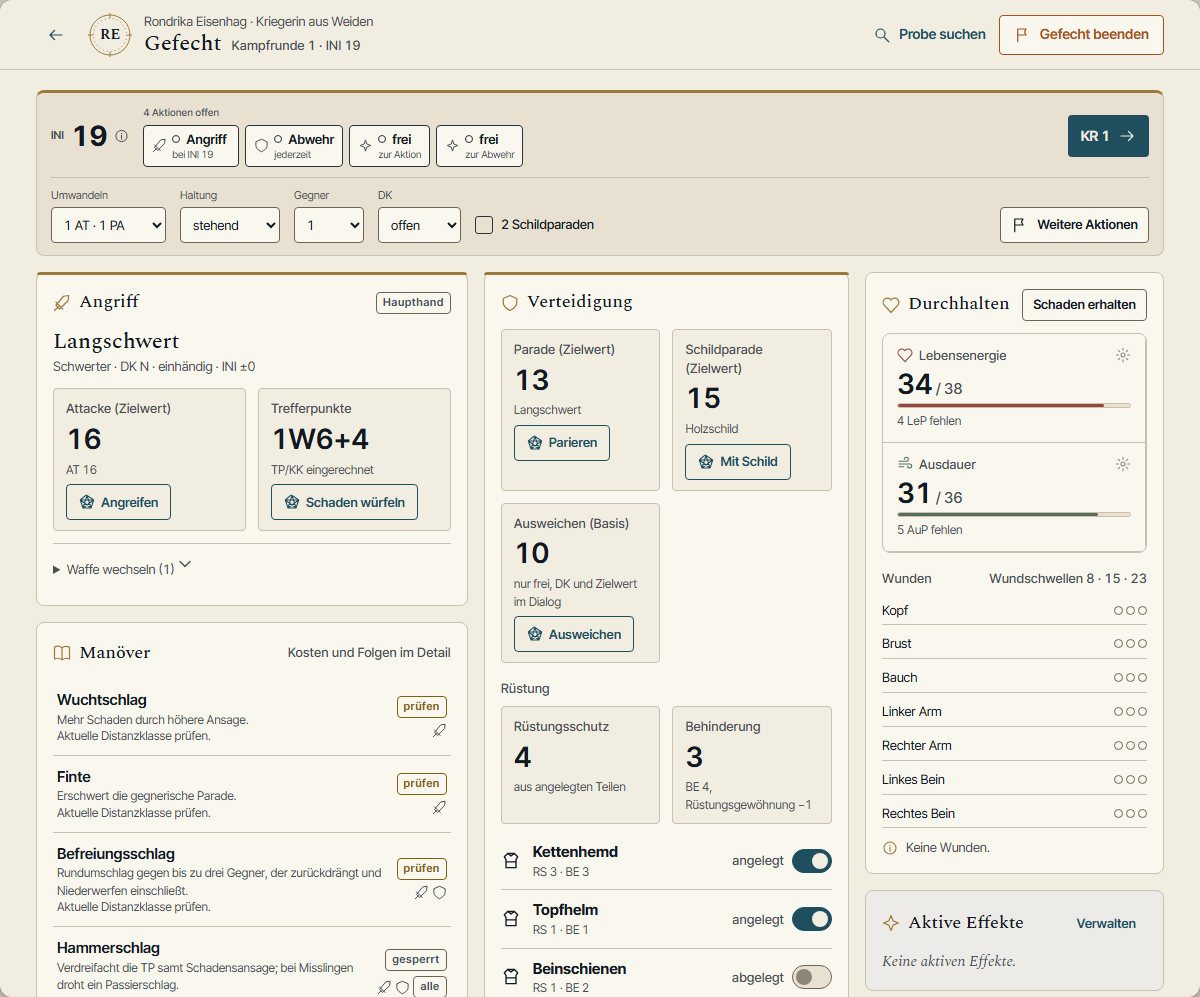
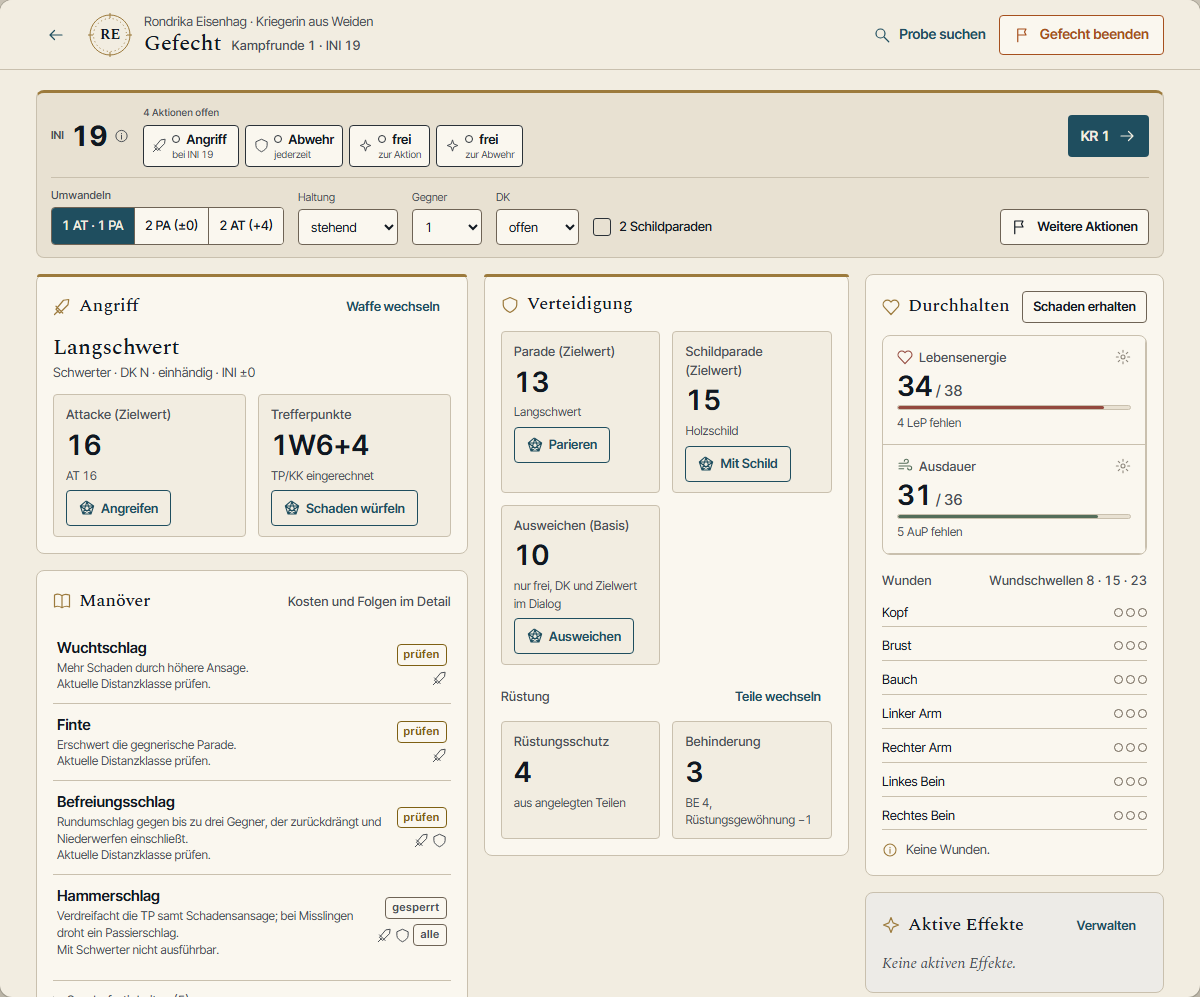
mockup: Umwandeln direkt wählen und Ausrüstung im Popup wechseln

diff --git a/docs/mockups/gefecht.js b/docs/mockups/gefecht.js
@@ -1368,7 +1368,6 @@ function zoneEffekte(h) {
 
 function zoneAngriff(h, g, v) {
   const w = v.waffe;
-  const andere = h.waffen.filter((x) => x.id !== w.id);
   let kern;
   if (v.nah) {
     const ers = erschwernis(h, g, v, 'at');
@@ -1401,19 +1400,12 @@ function zoneAngriff(h, g, v) {
   if (v.axx && v.nah) hinweise.push('Abwehr des beschleunigten Nahkampfangriffs: Automatische Finte +2');
   if (h.nebenhand && !v.schildNutzbar) hinweise.push(`${h.nebenhand.name}: mit ${w.name} (${w.hand}) nicht nutzbar.`);
   return `<section class="zone akzent" aria-labelledby="z-angriff">
-    ${zoneKopf(v.nah ? 'sword' : 'bow', '<span id="z-angriff">Angriff</span>', '<span class="chip-marke">Haupthand</span>')}
+    ${zoneKopf(v.nah ? 'sword' : 'bow', '<span id="z-angriff">Angriff</span>', '<button type="button" class="btn btn-leise btn-klein" data-action="ausruestung" data-bereich="waffen">Waffe wechseln</button>')}
     <div class="waffe-name"><span class="titel" style="font-size:22px">${esc(w.name)}</span></div>
     <div class="waffe-meta">${esc(w.talent)}${w.dk ? ` · DK ${w.dk}` : ''} · ${w.hand} · INI ${vz(w.ini)}</div>
     ${kern}
     ${hinweise.length ? `<div class="hinweise">${hinweise.map((t) => `<p class="hinweis-zeile">${icon('info')}<span>${esc(t)}</span></p>`).join('')}</div>` : ''}
-    ${andere.length ? `<details class="waffen-details"><summary>Waffe wechseln <span class="leise">(${andere.length})</span>${icon('chevron')}</summary>
-    <div class="zeilen">${andere.map((x) => {
-      const werte = x.art === 'nah' ? `AT ${x.at} · PA ${x.pa}` : `FK ${x.fk} · Ladezeit ${x.ladezeit}`;
-      const z = ZIEHEN[x.scheide];
-      const n = h.schnellziehen ? z.schnell : z.normal;
-      return `<div class="zeile">${icon(x.art === 'nah' ? 'sword' : 'bow')}<div class="zeile-text"><b>${esc(x.name)}</b><small>${werte} · ${z.text}: ${n === 0 ? 'Freie Aktion' : aktionenText(n)}</small></div>
-        <div class="rechts"><button type="button" class="btn btn-sekundaer btn-klein" data-action="ziehen" data-id="${x.id}">${icon('swap')}Ziehen</button></div></div>`;
-    }).join('')}</div></details>` : ''}
+
   </section>`;
 }
 
@@ -1471,13 +1463,12 @@ function zoneVerteidigung(h, g, v) {
     ${zoneKopf('shield', '<span id="z-vert">Verteidigung</span>')}
     <div class="werte" style="margin-top:0">${felder.join('')}</div>
     ${klingenwand}
-    <div class="unterkopf"><span class="etikett">Rüstung</span></div>
+    <div class="unterkopf"><span class="etikett">Rüstung</span><button type="button" class="btn btn-leise btn-klein" data-action="ausruestung" data-bereich="ruestung">Teile wechseln</button></div>
     <div class="werte" style="margin-top:0">
       ${wertfeld({ etikett: 'Rüstungsschutz', wert: v.rs, zusatz: v.armatrutz ? `Armatrutz ${vz(v.armatrutz)}` : 'aus angelegten Teilen' })}
       ${wertfeld({ etikett: 'Behinderung', wert: v.be, zusatz: h.ruestungsgewoehnung ? `BE ${v.beRoh}, Rüstungsgewöhnung ${minus(-h.ruestungsgewoehnung)}` : 'BE gesamt' })}
     </div>
-    <div class="zeilen" style="margin-top:8px">${h.ruestung.map((r) => `<div class="zeile">${icon('armor')}<div class="zeile-text"><b>${esc(r.name)}</b><small>RS ${r.rs} · BE ${r.be}</small></div>
-      <div class="rechts"><span class="etikett">${r.an ? 'angelegt' : 'abgelegt'}</span><button type="button" class="schalter" role="switch" aria-checked="${r.an}" aria-label="${esc(r.name)} angelegt" data-action="ruestung" data-id="${r.id}"></button></div></div>`).join('')}</div>
+
   </section>`;
 }
 
@@ -1796,6 +1787,12 @@ const abbrechen = (text = 'Abbrechen') => `<button type="button" class="btn btn-
 
 function dialogIni() {
   const h = S.held;
+  // Gewünschter Startablauf wie in der App: Aufmerksamkeit setzt den maximalen Wurf.
+  if (h.aufmerksamkeit) {
+    beginneGefecht(h.iniSeiten);
+    zeigeToast('Aufmerksamkeit: INI mit 6 statt 1W6 angesetzt.', 'compass');
+    return;
+  }
   const v = berechne(h, null);
   let wurfWert = null;
   oeffneDialog(`<div class="dlg-inhalt">
@@ -1806,7 +1803,6 @@ function dialogIni() {
         <input class="eingabe" id="ini-wurf" type="number" min="1" max="${h.iniSeiten}" inputmode="numeric" placeholder="1–${h.iniSeiten}">
         <button type="button" class="btn btn-sekundaer" data-dlg="wuerfeln">${icon('dice')}Würfeln</button></div>
       <div class="ergebnis" id="ini-ergebnis"></div>
-      ${h.aufmerksamkeit ? '<p class="legende">Aufmerksamkeit hebt die INI nicht schon beim Wurf, sondern über die Aktion Orientieren (1 Aktion, ohne Probe) aufs Maximum (WdS S. 74).</p>' : ''}
     </div>
     <div class="dlg-aktionen">${abbrechen()}<button type="button" class="btn btn-primaer" data-dlg="start" id="ini-start" disabled>${icon('sword')}Gefecht beginnen</button></div>`, {
     wuerfeln: () => { $('#ini-wurf').value = wuerfel(h.iniSeiten); dlg.beiEingabe(); },
@@ -1994,7 +1990,14 @@ app.addEventListener('click', (e) => {
     case 'marke':
       if (g.verbraucht[el.dataset.id]) { delete g.verbraucht[el.dataset.id]; delete g.lang[el.dataset.id]; } else { fixiereIniBoni(); g.verbraucht[el.dataset.id] = 'von Hand'; }
       render(); break;
-    case 'umwandeln': g.umwandeln = el.dataset.wert; if (g.umwandeln === 'pa-at') g.zweiSchildparaden = false; render(); break;
+    case 'umwandeln': {
+      const { plan } = aktuellerPlan();
+      if (ansageGesperrt(h, g, plan)) break;
+      g.umwandeln = el.dataset.wert;
+      if (g.umwandeln === 'pa-at') g.zweiSchildparaden = false;
+      render(); break;
+    }
+    case 'ausruestung': dialogAusruestung(el.dataset.bereich); break;
     case 'zwei-schild': g.zweiSchildparaden = !g.zweiSchildparaden; render(); break;
     case 'ini': g.iniVerlust = Math.max(0, g.iniVerlust + Number(el.dataset.wert)); render(); break;
     case 'haltung': g.haltung = el.dataset.wert; render(); break;
@@ -2110,6 +2113,6 @@ window.addEventListener('resize', () => render());
   frame.style.width = `${S.breite}px`;
   frame.dataset.breite = String(S.breite);
   frame.dataset.theme = S.thema;
-  if (teile.includes('gefecht')) beginneGefecht(5);
+  if (teile.includes('gefecht')) beginneGefecht(S.held.aufmerksamkeit ? S.held.iniSeiten : 5);
   else render();
 }());

diff --git a/docs/mockups/gefecht-ausruestung.js b/docs/mockups/gefecht-ausruestung.js
@@ -1,0 +1,84 @@
+/* Ausrüstungsdialog für den flüchtigen Gefecht-Entwurf. */
+'use strict';
+
+// Der Dialog benötigt nur reguläre Marken; Zusatzparaden bezahlen keinen Waffenwechsel.
+function ausruestungBudget(v, plan) {
+  const g = S.gefecht;
+  const regulaer = plan.marken.some((m) =>
+    ['a1', 'a2'].includes(m.id) && !m.gesperrt && !g.verbraucht[m.id]);
+  const frei = !pruefeAktionskosten('frei').grund;
+  const lage = v.lage && !(v.lage.art === 'kampfunfaehig' && g.kfIgnoriert > 0);
+  return { regulaer, frei, lage };
+}
+
+// Werte und Kosten bleiben vor dem tatsächlichen Ziehen sichtbar.
+function ausruestungWaffen(h, g, v, budget) {
+  return h.waffen.map((w) => {
+    const z = ZIEHEN[w.scheide];
+    const n = h.schnellziehen ? z.schnell : z.normal;
+    const aktiv = w.id === h.aktiveWaffe;
+    const offen = n === 0 ? budget.frei : budget.regulaer;
+    let sperre = null;
+    if (budget.lage) sperre = v.lage.text;
+    else if (g.patzer) sperre = 'Patzer: Runde verloren.';
+    else if (!offen) sperre = 'Keine passende Aktion offen.';
+    const werte = w.art === 'nah'
+      ? `AT ${w.at} · PA ${w.pa} · DK ${w.dk}`
+      : `FK ${w.fk} · Ladezeit ${w.ladezeit}`;
+    const kosten = n === 0 ? 'Freie Aktion' : aktionenText(n);
+    const zustand = aktiv ? 'Aktuell geführt' : sperre || `${z.text} · ${kosten}`;
+    const deaktiviert = aktiv || sperre ? 'disabled' : '';
+    return `<div class="ausruestung-zeile">
+      ${icon(w.art === 'nah' ? 'sword' : 'bow')}
+      <div class="zeile-text"><b>${esc(w.name)}</b>
+        <small>${esc(werte)}</small><small>${esc(zustand)}</small></div>
+      <button type="button" class="btn btn-sekundaer btn-klein"
+        data-dlg="ziehen" data-id="${w.id}" ${deaktiviert}>
+        ${aktiv ? 'Geführt' : 'Ziehen'}</button></div>`;
+  }).join('');
+}
+
+// Einzelteile und ihr Anlegestatus gehören ausschließlich in den Ausrüstungsdialog.
+function ausruestungTeile(h) {
+  return h.ruestung.map((r) => `<div class="ausruestung-zeile">
+    ${icon('armor')}<div class="zeile-text"><b>${esc(r.name)}</b>
+      <small>RS ${r.rs} · BE ${r.be} · ${r.an ? 'angelegt' : 'abgelegt'}</small></div>
+    <button type="button" class="schalter" role="switch" aria-checked="${r.an}"
+      aria-label="${esc(r.name)} angelegt" data-dlg="ruestung"
+      data-id="${r.id}"></button></div>`).join('');
+}
+
+// Ein gemeinsamer Dialog hält Waffen und Rüstungsteile aus dem Kampf-Hauptfluss heraus.
+function dialogAusruestung(bereich = 'waffen') {
+  const h = S.held;
+  const g = S.gefecht;
+  const { v, plan } = aktuellerPlan();
+  const budget = ausruestungBudget(v, plan);
+  const waffen = bereich === 'waffen';
+  const inhalt = waffen ? ausruestungWaffen(h, g, v, budget) : ausruestungTeile(h);
+  const hinweis = waffen
+    ? 'Ziehen verbraucht die angegebene Aktion; längere Wechsel laufen als Handlung weiter.'
+    : 'Angelegte Teile aktualisieren. Den Zeitbedarf für An- und Ablegen am Spieltisch berücksichtigen.';
+  const summe = waffen ? ''
+    : `<p class="ausruestung-summe">Aktuell: RS ${v.rs} · BE ${v.be}</p>`;
+  oeffneDialog(`<div class="dlg-inhalt"><h2 id="dlg-titel">Ausrüstung wechseln</h2>
+    <div class="seg ausruestung-tabs" role="group" aria-label="Ausrüstungsbereich">
+      <button type="button" data-dlg="waffen" aria-pressed="${waffen}">
+        ${icon('sword')}Waffen</button>
+      <button type="button" data-dlg="teile" aria-pressed="${!waffen}">
+        ${icon('armor')}Rüstungsteile</button>
+    </div>
+    <p class="legende">${hinweis}</p>
+    <div class="ausruestung-liste">${inhalt || '<p class="legende">Keine Einträge.</p>'}</div>
+    ${summe}</div><div class="dlg-aktionen">${abbrechen('Fertig')}</div>`, {
+      waffen: () => dialogAusruestung('waffen'),
+      teile: () => dialogAusruestung('ruestung'),
+      ziehen: (b) => { dlg.close(); fuehreAktionAus(`ziehen:${b.dataset.id}`); },
+      ruestung: (b) => {
+        const teil = h.ruestung.find((r) => r.id === b.dataset.id);
+        teil.an = !teil.an;
+        render();
+        dialogAusruestung('ruestung');
+      },
+    });
+}

diff --git a/docs/mockups/gefecht.css b/docs/mockups/gefecht.css
@@ -289,6 +289,17 @@ h1, h2, h3, p { margin: 0; }
 .takt-unten { display: flex; flex-wrap: wrap; align-items: flex-end; gap: 8px 14px; margin-top: 10px; padding-top: 10px; border-top: var(--s-hoehenlinie) solid var(--hoehenlinie); }
 .takt-auswahl { display: flex; flex-direction: column; gap: 3px; min-width: 0; }
 .takt-auswahl > span { font-size: 11px; color: var(--schrift-leise); }
+.takt-umwandeln { display: flex; flex-direction: column; gap: 3px; }
+.takt-umwandeln > .etikett { font-size: 11px; }
+.takt-umwandeln .seg { flex-wrap: nowrap; }
+.takt-umwandeln .seg button { min-height: 36px; }
+.ausruestung-tabs { margin: 12px 0; }
+.ausruestung-tabs button { display: inline-flex; align-items: center; gap: 6px; }
+.ausruestung-tabs .icon { width: 16px; height: 16px; }
+.ausruestung-liste { margin-top: 14px; }
+.ausruestung-zeile { display: flex; align-items: center; gap: 12px; padding: 12px 0; border-bottom: var(--s-hoehenlinie) solid var(--hoehenlinie); }
+.ausruestung-zeile > .icon { color: var(--messing); }
+.ausruestung-summe { margin-top: 14px; font-size: 13px; color: var(--schrift-leise); }
 .takt-auswahl select { min-height: 36px; max-width: 100%; padding: 4px 24px 4px 8px; color: var(--schrift); background: var(--feld); border: var(--s-grat) solid var(--grat); border-radius: var(--r-klein); font: inherit; font-size: 13px; }
 .takt-auswahl select:disabled { color: var(--schrift-leise); }
 .takt-unten .check { min-height: 36px; }
@@ -332,6 +343,9 @@ h1, h2, h3, p { margin: 0; }
   .rundenwechsel { grid-column: 3; grid-row: 1; padding-inline: 8px; }
   .rundenwechsel .icon { width: 16px; }
   .takt-unten { gap: 8px; }
+  .takt-umwandeln { flex-basis: 100%; flex-direction: row; align-items: center; gap: 8px; }
+  .takt-umwandeln .seg { flex: 1; }
+  .takt-umwandeln .seg button { flex: 1; min-height: 40px; padding: 6px; font-size: 12px; }
   .takt-auswahl select { min-height: 40px; padding: 4px 6px; }
   .takt-auswahl:nth-child(1) select { width: 100px; }
   .takt-auswahl:nth-child(2) select { width: 82px; }

diff --git a/docs/mockups/gefecht-aktionen.js b/docs/mockups/gefecht-aktionen.js
@@ -120,7 +120,8 @@ function kompakterTakt(h, g, v, plan) {
     { wert: 'at-pa', text: `2 PA (${um.gesperrt ? '–' : vz(um.atPa.erschw)})`, gesperrt: Boolean(um.gesperrt) },
     { wert: 'pa-at', text: `2 AT (${um.gesperrt ? '–' : vz(um.paAt.erschw)})`, gesperrt: Boolean(um.gesperrt || g.zweiSchildparaden || v.iniAktuell < 8) },
   ];
-  const umwandeln = taktAuswahl('Umwandeln', 'umwandeln', g.umwandeln, optionen, Boolean(sperre));
+  const umKnopf = (e) => `<button type="button" data-action="umwandeln" data-wert="${e.wert}" aria-pressed="${g.umwandeln === e.wert}" ${sperre || e.gesperrt ? 'disabled' : ''}>${esc(e.text)}</button>`;
+  const umwandeln = `<div class="takt-umwandeln"><span class="etikett">Umwandeln</span><div class="seg" role="group" aria-label="Aktionen umwandeln">${optionen.map(umKnopf).join('')}</div></div>`;
   const haltungen = ['stehend', 'kniend', 'liegend'].map((x) => ({ wert: x, text: x }));
   const gegner = [1, 2, 3, 4].map((x) => ({ wert: x, text: x === 4 ? '4+' : String(x) }));
   const dk = [{ wert: '', text: 'offen' }, ...['H', 'N', 'S', 'P'].map((x) => ({ wert: x, text: x }))];

diff --git a/docs/mockups/gefecht.html b/docs/mockups/gefecht.html
@@ -7,6 +7,7 @@
   <title>Gefecht – Kartograph-Entwurf</title>
   <link rel="stylesheet" href="gefecht.css">
   <script src="gefecht-aktionen.js" defer></script>
+  <script src="gefecht-ausruestung.js" defer></script>
   <script src="gefecht.js" defer></script>
 </head>
 <body>

diff --git a/docs/mockups/gefecht-plan.md b/docs/mockups/gefecht-plan.md
@@ -8,7 +8,24 @@ Wir entwickeln zunächst Plan und Mockup weiter. Die Flutter-App wird erst nach
 Abnahme des Entwurfs angepasst. Beispielrechnungen und Zufallswürfe im Browser
 sind keine neue produktive Regelimplementierung.
 
-Geprüfte Vorschauen: [Desktop](gefecht-desktop.png), [Handy](gefecht-handy.png).
+Geprüfte Vorschauen: [Desktop](gefecht-desktop.png), [Handy](gefecht-handy.png),
+[Ausrüstungsdialog](gefecht-ausruestung.png).
+
+### Gefecht beginnen
+
+Vor der INI-Abfrage wird die SF **Aufmerksamkeit** geprüft. Mit ihr wird im
+gewünschten Startablauf der maximale Wurf angesetzt (in den Beispielen 6 statt
+1W6) und direkt das Gefecht geöffnet. Ohne Aufmerksamkeit bleibt der Dialog zum
+Würfeln oder Eintragen des echten Wurfs. Der Beispieldirektstart über die Adresse
+berücksichtigt dieselbe SF.
+
+Das folgt dem vorhandenen App-Modell in `lib/rules/derived/combat_rules.dart`
+(`initiativeFixedRollTotal`), ist aber keine durch WdS bestätigte Startregel:
+WdS S. 56, MCP-Chunk 6973, setzt das Maximum durch die Aktion Orientieren;
+Aufmerksamkeit verkürzt diese auf eine Aktion ohne Probe. Orientieren vor
+Kampfbeginn ist dort ausgeschlossen. Die Abweichung ist eine ausdrücklich
+gewünschte Produktentscheidung für diesen Entwurf. Kampfreflexe und Kampfgespür
+werden nicht mit dem Ersatz des Wurfs verwechselt.
 
 ## 1. Anordnung
 
@@ -20,9 +37,11 @@ Eine gemeinsame Leiste bündelt:
 1. **INI, offene Aktionsmarken, KR und Rundenwechsel.** Marken zeigen Angriff,
    Abwehr, freie Aktionen und gegebenenfalls Zusatzparaden. Verbrauch und Sperre
    bleiben direkt erkennbar.
-2. **Umwandeln, Haltung, Gegnerzahl und aktuelle DK** als beschriftete kompakte
-   Auswahlfelder. „1 AT · 1 PA“ bezeichnet den normalen Rundenplan;
+2. **Umwandeln** als drei direkt erreichbare Schaltflächen, ohne Pickliste.
+   „1 AT · 1 PA“ bezeichnet den normalen Rundenplan;
    „2 PA“ beziehungsweise „2 AT“ zeigt den Umwandlungszuschlag an.
+   Die aktive Option ist markiert; gesperrte Optionen sind deaktiviert.
+   **Haltung, Gegnerzahl und aktuelle DK** bleiben kompakte Auswahlfelder.
    Zwei Schildparaden und „Weitere Aktionen“ stehen daneben und brechen bei
    Bedarf in die nächste Zeile um.
 
@@ -47,7 +66,22 @@ Die DK-Auswahl beginnt mit „offen“; die Waffen-DK ersetzt keine erfasste Kam
 Am Handy beginnt „Durchhalten“ eingeklappt mit LeP und Wundenzahl. Bei Wunden
 oder einem aktiven Malus durch niedrige LE öffnet sich der Bereich automatisch.
 Die Schnellaktionen bleiben unten erreichbar und spiegeln die Freigaben der
-Hauptbereiche. Waffenwechsel und die vollständige SF-Liste stehen in Details.
+Hauptbereiche. Nur die vollständige SF-Liste steht in Details.
+
+### Ausrüstung im eigenen Popup
+
+„Waffe wechseln“ im Angriff und „Teile wechseln“ unter Rüstung öffnen denselben
+Ausrüstungsdialog im passenden Bereich. Zwei direkte Bereichsschalter führen
+zwischen Waffen und Rüstungsteilen. Die Hauptansicht enthält die geführte Waffe
+sowie RS und BE; Ersatzwaffen und einzelne Rüstungsschalter entfallen dort.
+
+Waffen zeigen Werte, Ziehkosten und den aktuellen Zustand. Ziehen verwendet
+die bisherige Aktionssimulation; ein längerer Wechsel wird als Handlung
+fortgesetzt, nicht sofort abgeschlossen. Ohne passende Aktion ist er gesperrt.
+Rüstungsteile lassen sich im Popup an- und ablegen, und RS/BE werden aktualisiert.
+Das korrigiert den erfassten Ausrüstungszustand; An- und Ablegedauer werden noch
+nicht automatisch als Kampfhandlungen simuliert und bleiben vor der App-Abnahme
+zu klären. Ein Hinweis im Dialog erinnert an den Zeitbedarf am Spieltisch.
 
 ## 2. Erkennbare Freigaben
 
@@ -75,6 +109,10 @@ werden. Der Entwurf beansprucht keine vollständige automatische Regelprüfung.
 
 - [x] Rundenbeginn-Ansage, Haltung und Gegnerzahl verdichten; freie Seitenflächen
   der bisherigen Taktkarte beseitigen.
+- [x] Umwandeln über drei direkte Schaltflächen anbieten, ohne Pickliste.
+- [x] Mit Aufmerksamkeit die INI-Abfrage überspringen und den maximalen
+  Wurf ansetzen; ohne die SF manuelle Wahl beibehalten.
+- [x] Waffen und Rüstungsteile in ein separates Popup verlagern.
 - [x] Manöver sichtbar vor Ressourcen anordnen; Nutzen und Freigabe anzeigen.
 - [x] Anzeige und Ausführung verwenden gemeinsame Aktionskostenprüfungen.
   Ohne passende Marke entsteht kein Kampf- oder Ausweichwurf.
@@ -150,7 +188,7 @@ ungeprüft in Widget, Provider oder Domain-Modell übernommen.
 
 ## 6. Prüfnachweis dieser Iteration
 
-Am 01.10.2026: 18 Browserprüfungen mit lokalem Edge über das DevTools-Protokoll,
+Erste Iteration am 01.10.2026: 18 Browserprüfungen mit lokalem Edge über das DevTools-Protokoll,
 darunter fünf Layoutvarianten (390/820/1200/1440, Hell/Dunkel, drei Beispielhelden),
 Haltung und Gegnerzahl, explizite DK, INI-Dialog, Umwandlungszielwert,
 Aktionsverbrauch, Rundenwechsel und gesperrter Hammerschlag. Keine
@@ -166,3 +204,11 @@ Sie sind Nachweise für diesen Stand, keine produktive Testsuite.
 Zusätzliche Projektprüfung: `flutter analyze` ohne Befunde;
 `flutter test test/rules/combat_rules_test.dart test/ui/combat/hero_combat_tab_test.dart`
 mit 123 erfolgreichen Tests. Flutter-Dateien wurden nicht geändert.
+
+Zweite Iteration am 01.10.2026: 28 Browserprüfungen ohne Laufzeitfehler oder
+horizontalen Überlauf in den fünf geprüften Layoutvarianten. Zusätzlich zur
+ersten Browsermatrix geprüft: INI-Start mit/ohne Aufmerksamkeit und manuellem
+Wurf, direkte Umwandlungsoptionen, ausgelagerte Ausrüstung, Rüstungsschalter
+samt BE-Aktualisierung sowie Waffenwechsel mit zwei tatsächlich verbrauchten
+Aktionen. Acht isolierte Prüfungen decken dieselben neuen Abläufe ab.
+Vorschauen für Desktop, Handy und Ausrüstungsdialog wurden aktualisiert.

diff --git a/docs/mockups/README.md b/docs/mockups/README.md
@@ -93,24 +93,30 @@ setzen, z. B. `gefecht.html#magier,390,dunkel,gefecht`.
 
 Der [Arbeitsplan für das Gefecht](gefecht-plan.md) hält Anordnung,
 Regelbelege, offene Annahmen und die nächsten Designentscheidungen fest.
-Dateien: `gefecht.html`, `gefecht.css`, `gefecht.js` und
-`gefecht-aktionen.js` (gemeinsame Freigaben und kompakte Rundensteuerung).
-Geprüfte Vorschauen: [Desktop](gefecht-desktop.png), [Handy](gefecht-handy.png).
+Dateien: `gefecht.html`, `gefecht.css`, `gefecht.js`,
+`gefecht-aktionen.js` (Freigaben und Rundensteuerung) und
+`gefecht-ausruestung.js` (Ausrüstungsdialog).
+Geprüfte Vorschauen: [Desktop](gefecht-desktop.png), [Handy](gefecht-handy.png),
+[Ausrüstungspopup](gefecht-ausruestung.png).
 
 Gezeigt werden:
 
 - Spielansicht in Ruhe mit kompakter Kampfzusammenfassung und
-  „Gefecht beginnen“, danach die INI-Wahl (würfeln oder echten Wurf
-  eintragen) und der Vollbild-Screen. „Zurück“ lässt das Gefecht laufen,
+  „Gefecht beginnen“. Mit Aufmerksamkeit geht es direkt mit 6 statt 1W6
+  in den Vollbild-Screen; sonst bleibt die INI-Wahl (würfeln oder echten
+  Wurf eintragen). Diese gewünschte Abkürzung folgt dem App-Modell; die
+  Abweichung zum WdS-Orientieren ist im Plan ausdrücklich dokumentiert. „Zurück“ lässt das Gefecht laufen,
   die Spielansicht zeigt dann ein Band „Gefecht läuft“.
 - Kompakter Takt über die gesamte Breite: INI, Aktionsmarken und Rundenwechsel;
-  darunter Auswahlfelder für Umwandeln, Haltung, Gegnerzahl und tatsächliche
-  DK. Aufschlüsselung und Regelhinweise öffnen sich über den INI-Knopf.
+  darunter drei direkte Umwandlungsschalter sowie Auswahlfelder für Haltung,
+  Gegnerzahl und tatsächliche DK. Aufschlüsselung und Regelhinweise öffnen sich über den INI-Knopf.
   Nur wirksame Sonderzustände und laufende Handlungen brauchen Zusatzplatz.
 - Angriff, sichtbare Manöver und Abwehr stehen vor den Ressourcen. Manöver
   zeigen „bereit“, „prüfen“ oder „gesperrt“ mit Grund, Nutzen und Aktionsarten.
   Am Handy ist „Durchhalten“ zunächst eingeklappt; Wunden oder niedrige LE
-  öffnen es. Waffenwechsel und die vollständige SF-Liste sind Details.
+  öffnen es. Die vollständige SF-Liste bleibt in Details. Waffen und
+  Rüstungsteile wechseln in einem eigenen Popup; Ziehkosten bleiben erhalten,
+  Rüstungsdauer wird noch manuell berücksichtigt.
 - Aktionsmenü nach WdS S. 55: Position, Bewegen, Orientieren, Waffe ziehen,
   Nachladen, Sprinten, Gegenstand benutzen, Talent einsetzen, Mirakel und
   die Freien Aktionen (Rufen, Schritt, Drehen, Artefakt, Waffe fallen
@@ -166,8 +172,10 @@ Liturgieprobe fällt wie die Zauberprobe zu Beginn; „Position und
 Orientieren in einer Aktion“ (Hausregel) verlangt weiter die IN-Probe des
 Orientierens; ein Mirakel auf Ausweichen wirkt wie auf eine Eigenschaft.
 
-Diese Iteration wurde am 01.10.2026 mit 18 Browserprüfungen und 22
-isolierten Verhaltensprüfungen geprüft. Die geprüften Layouts zeigen keinen
+Die erste Iteration wurde am 01.10.2026 mit 18 Browserprüfungen und 22
+isolierten Verhaltensprüfungen geprüft. Die zweite Iteration ergänzt den
+INI-Start, direkte Umwandlung und das Ausrüstungspopup; ihre 28 Browserprüfungen
+und acht isolierten Prüfungen bestehen ebenfalls. Die geprüften Layouts zeigen keinen
 horizontalen Überlauf; JavaScript-Laufzeitfehler wurden nicht beobachtet.
 Die genauen Fälle und bewusst offenen Regelsituationen stehen im
 [Gefecht-Plan](gefecht-plan.md#6-prüfnachweis-dieser-iteration).

diff --git a/CLAUDE.md b/CLAUDE.md
@@ -15,7 +15,8 @@ Kurze Einstiegsdatei fuer neue Sessions. Diese Datei bleibt absichtlich klein un
   Es nutzt ausschließlich flüchtige Beispieldaten und keine produktive Regellogik.
   Der [Gefecht-Plan](docs/mockups/gefecht-plan.md) ergänzt das klickbare
   Gefechts-Mockup. `gefecht-aktionen.js` bündelt dessen Freigaben und kompakte
-  Rundensteuerung; die Flutter-Umsetzung wartet auf die gemeinsame Designabnahme.
+  Rundensteuerung, `gefecht-ausruestung.js` enthält das separate Ausrüstungspopup.
+  Die Flutter-Umsetzung wartet auf die gemeinsame Designabnahme.
 - [Redesign umsetzen](docs/redesign_implementation.md) enthält drei aufeinander
   aufbauende Agentenpläne, Startprompts und die gemeinsame Umsetzungsspezifikation
   unter `docs/superpowers/`. Ausgangspunkt ist das vorhandene UI2-Fundament;
